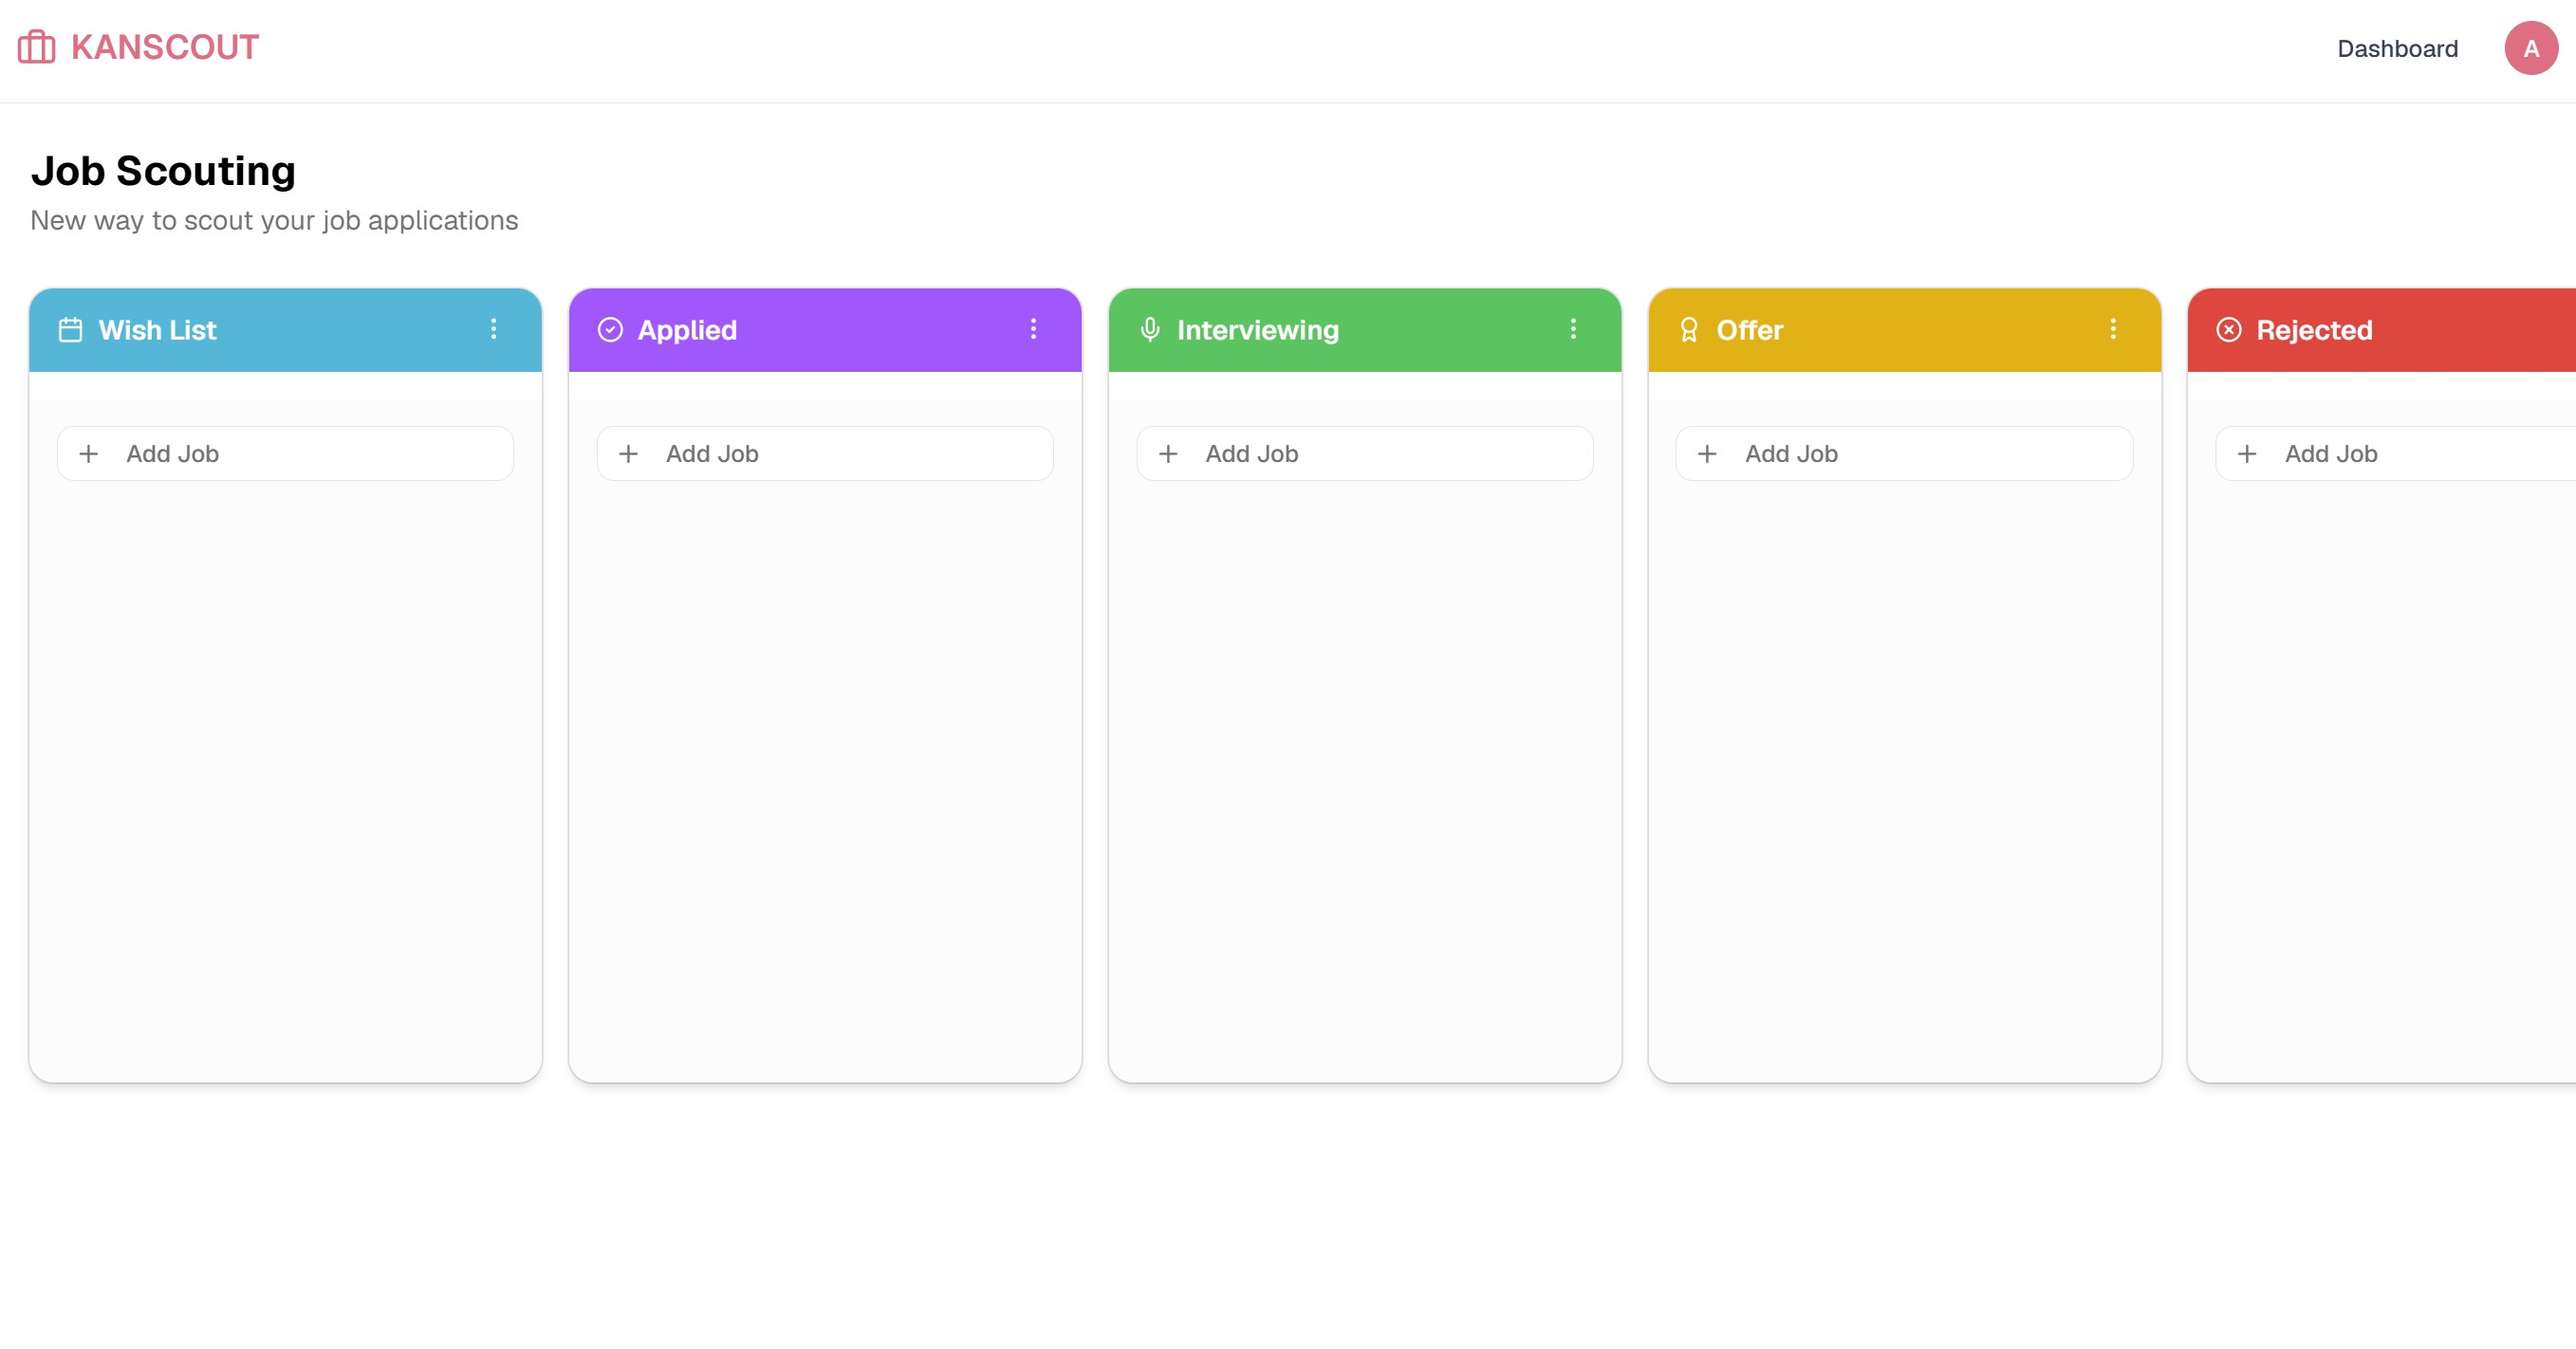
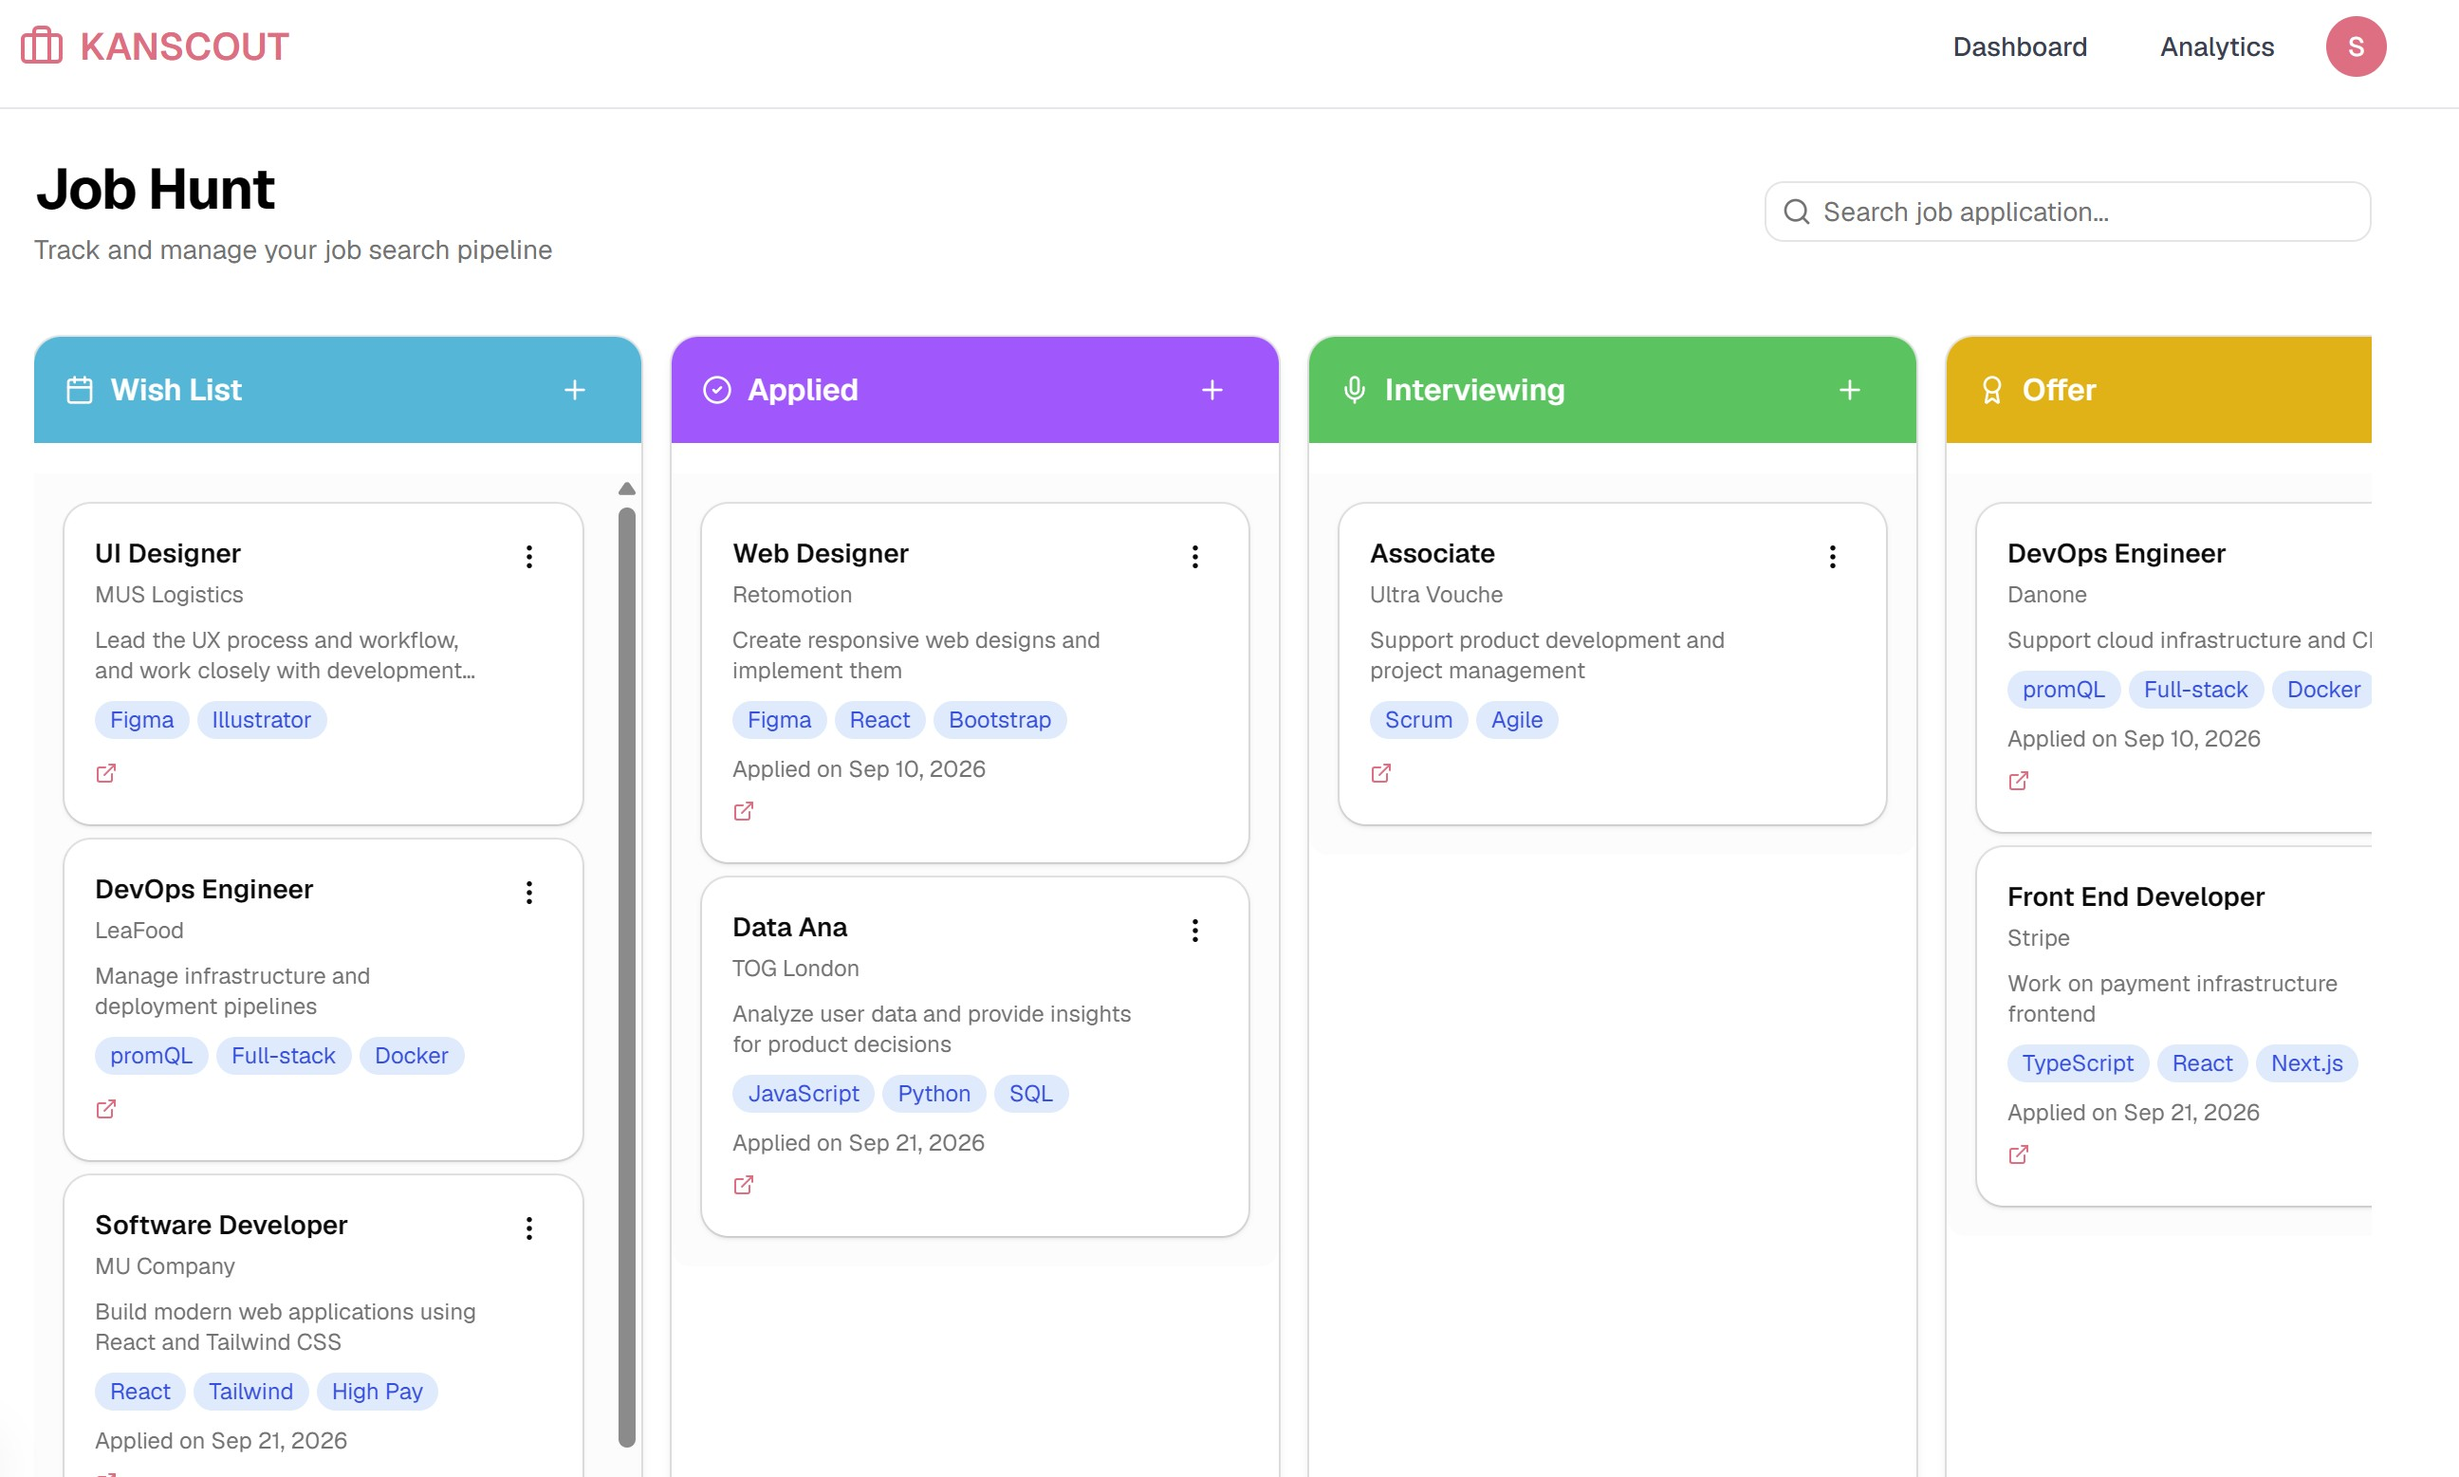
update: image homepage

diff --git a/components/image-tabs.tsx b/components/image-tabs.tsx
@@ -23,14 +23,14 @@ export default function ImageTabs(){
                     Organize Applications
                     </Button>
                     <Button 
-                    onClick={() => setActiveTab('hired')}
+                    onClick={() => setActiveTab('analytics')}
                     className={`rounded-lg px-6 py-3 text-sm font-medium transition-colors 
-                        ${activeTab === 'hired' 
+                        ${activeTab === 'analytics' 
                         ? 'bg-primary text-white' 
                         : 'bg-gray-100 text-gray-700 hover:bg-gray-200'
                     }`}
                     >
-                    Get Hired
+                    Check Analytics
                     </Button>
                     <Button onClick={() => setActiveTab('boards')}
                     className={`rounded-lg px-6 py-3 text-sm font-medium transition-colors 
@@ -51,10 +51,10 @@ export default function ImageTabs(){
                         height={800}
                     />
                     )}
-                    {activeTab === 'hired' && (
+                    {activeTab === 'analytics' && (
                     <Image 
                         src='/hero-images/hero2.jpg' 
-                        alt='hired'
+                        alt='analytics'
                         width={1200}
                         height={800}
                     />
